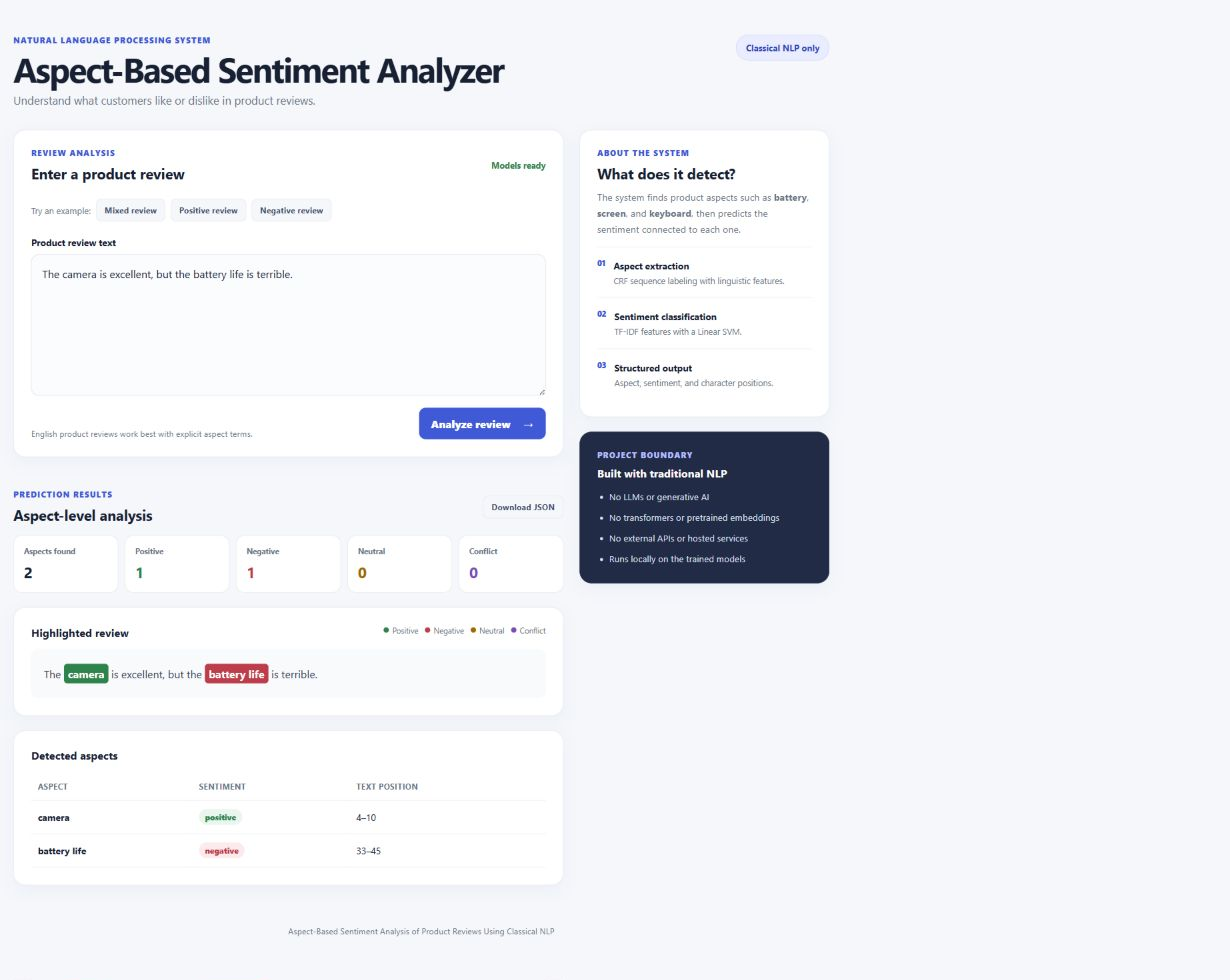
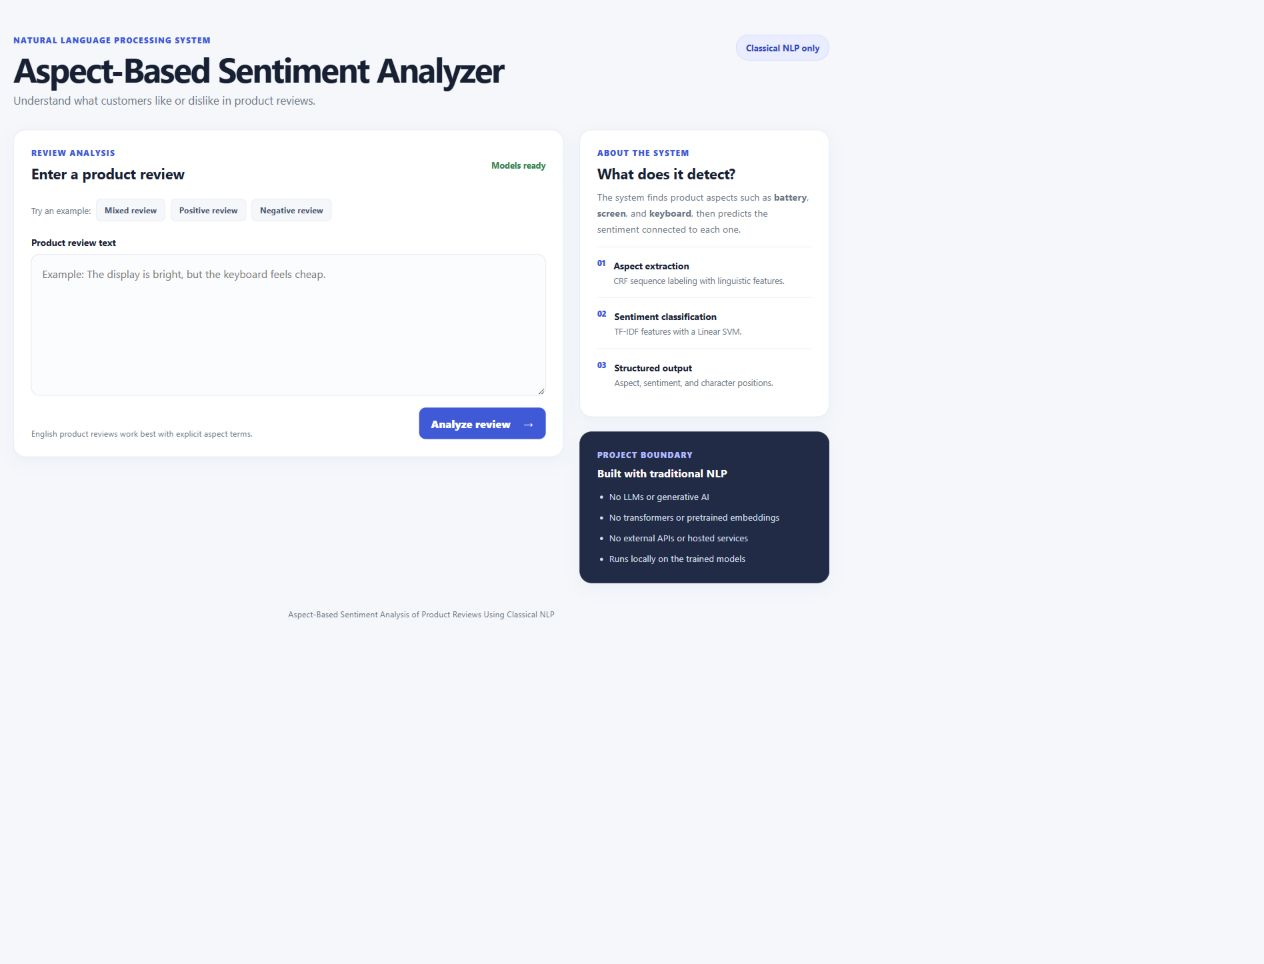
Fix frontend spacing and replace blurry screenshots

diff --git a/frontend/templates/index.html b/frontend/templates/index.html
@@ -51,41 +51,43 @@
                 </article>
 
                 <section id="results-section" hidden>
-                    <div class="section-heading results-heading">
-                        <div><p class="eyebrow">PREDICTION RESULTS</p><h2>Aspect-level analysis</h2></div>
-                        <button class="secondary-button" id="download-button" type="button">Download JSON</button>
-                    </div>
+                    <div class="results-stack">
+                        <div class="section-heading results-heading">
+                            <div><p class="eyebrow">PREDICTION RESULTS</p><h2>Aspect-level analysis</h2></div>
+                            <button class="secondary-button" id="download-button" type="button">Download JSON</button>
+                        </div>
 
-                    <div class="metrics-grid">
-                        <div class="metric-card"><span class="metric-label">Aspects found</span><strong id="aspect-count">0</strong></div>
-                        <div class="metric-card positive-card"><span class="metric-label">Positive</span><strong id="positive-count">0</strong></div>
-                        <div class="metric-card negative-card"><span class="metric-label">Negative</span><strong id="negative-count">0</strong></div>
-                        <div class="metric-card neutral-card"><span class="metric-label">Neutral</span><strong id="neutral-count">0</strong></div>
-                        <div class="metric-card conflict-card"><span class="metric-label">Conflict</span><strong id="conflict-count">0</strong></div>
-                    </div>
+                        <div class="metrics-grid">
+                            <div class="metric-card"><span class="metric-label">Aspects found</span><strong id="aspect-count">0</strong></div>
+                            <div class="metric-card positive-card"><span class="metric-label">Positive</span><strong id="positive-count">0</strong></div>
+                            <div class="metric-card negative-card"><span class="metric-label">Negative</span><strong id="negative-count">0</strong></div>
+                            <div class="metric-card neutral-card"><span class="metric-label">Neutral</span><strong id="neutral-count">0</strong></div>
+                            <div class="metric-card conflict-card"><span class="metric-label">Conflict</span><strong id="conflict-count">0</strong></div>
+                        </div>
 
-                    <article class="card highlighted-card">
-                        <div class="card-heading-row">
-                            <h3>Highlighted review</h3>
-                            <div class="legend">
-                                <span><i class="legend-dot positive-dot"></i>Positive</span>
-                                <span><i class="legend-dot negative-dot"></i>Negative</span>
-                                <span><i class="legend-dot neutral-dot"></i>Neutral</span>
-                                <span><i class="legend-dot conflict-dot"></i>Conflict</span>
+                        <article class="card highlighted-card">
+                            <div class="card-heading-row">
+                                <h3>Highlighted review</h3>
+                                <div class="legend">
+                                    <span><i class="legend-dot positive-dot"></i>Positive</span>
+                                    <span><i class="legend-dot negative-dot"></i>Negative</span>
+                                    <span><i class="legend-dot neutral-dot"></i>Neutral</span>
+                                    <span><i class="legend-dot conflict-dot"></i>Conflict</span>
+                                </div>
                             </div>
-                        </div>
-                        <p class="highlighted-review" id="highlighted-review"></p>
-                    </article>
+                            <p class="highlighted-review" id="highlighted-review"></p>
+                        </article>
 
-                    <article class="card table-card">
-                        <h3>Detected aspects</h3>
-                        <div class="table-wrapper">
-                            <table>
-                                <thead><tr><th>Aspect</th><th>Sentiment</th><th>Text position</th></tr></thead>
-                                <tbody id="results-table"></tbody>
-                            </table>
-                        </div>
-                    </article>
+                        <article class="card table-card">
+                            <h3>Detected aspects</h3>
+                            <div class="table-wrapper">
+                                <table>
+                                    <thead><tr><th>Aspect</th><th>Sentiment</th><th>Text position</th></tr></thead>
+                                    <tbody id="results-table"></tbody>
+                                </table>
+                            </div>
+                        </article>
+                    </div>
                 </section>
             </section>
 

diff --git a/public/static/css/styles.css b/public/static/css/styles.css
@@ -26,8 +26,8 @@ h2 { margin-bottom: 10px; font-size: 1.35rem; }
 h3 { margin-bottom: 15px; font-size: 1.02rem; }
 .subtitle { margin-bottom: 0; color: var(--muted); font-size: 1.05rem; }
 .technology-badge { padding: 10px 14px; color: var(--primary-dark); background: #e9edff; border: 1px solid #cdd6ff; border-radius: 999px; font-size: 0.82rem; font-weight: 700; white-space: nowrap; }
-.layout-grid { display: grid; grid-template-columns: minmax(0, 1.65fr) minmax(280px, 0.75fr); gap: 24px; padding-bottom: 38px; }
-.main-column, .side-column { display: flex; flex-direction: column; gap: 22px; }
+.layout-grid { display: grid; grid-template-columns: minmax(0, 1.65fr) minmax(280px, 0.75fr); align-items: start; gap: 24px; padding-bottom: 38px; }
+.main-column, .side-column { display: flex; flex-direction: column; gap: 24px; }
 .card { padding: 26px; background: var(--surface); border: 1px solid var(--line); border-radius: 18px; box-shadow: 0 8px 25px rgba(28, 41, 70, 0.04); }
 .section-heading, .card-heading-row, .form-footer { display: flex; align-items: center; justify-content: space-between; gap: 16px; }
 .section-heading { margin-bottom: 24px; }
@@ -47,13 +47,15 @@ textarea:focus { border-color: var(--primary); box-shadow: 0 0 0 3px rgba(54, 88
 .primary-button:hover { background: var(--primary-dark); }.primary-button:disabled { opacity: 0.65; cursor: wait; }
 .button-arrow { font-size: 1.2rem; line-height: 0.8; }
 .message { margin-top: 16px; padding: 12px 14px; color: var(--negative); background: #fff1f2; border: 1px solid #fecdd3; border-radius: 9px; font-size: 0.86rem; }
-.results-heading { margin: 26px 0 16px; }
-.metrics-grid { display: grid; grid-template-columns: repeat(5, minmax(0, 1fr)); gap: 10px; margin-bottom: 22px; }
-.metric-card { padding: 15px; background: var(--surface); border: 1px solid var(--line); border-radius: 13px; }
+.results-stack { display: grid; gap: 24px; }
+.results-heading { margin: 0; }
+.metrics-grid { display: grid; grid-template-columns: repeat(5, minmax(0, 1fr)); gap: 12px; }
+.metric-card { display: grid; min-height: 92px; align-content: space-between; padding: 15px; background: var(--surface); border: 1px solid var(--line); border-radius: 13px; }
 .metric-label { display: block; margin-bottom: 8px; color: var(--muted); font-size: 0.72rem; font-weight: 700; }
 .metric-card strong { font-size: 1.45rem; }.positive-card strong { color: var(--positive); }.negative-card strong { color: var(--negative); }.neutral-card strong { color: var(--neutral); }.conflict-card strong { color: var(--conflict); }
-.highlighted-card, .table-card { margin-bottom: 22px; }
+.highlighted-card, .table-card { margin-bottom: 0; }
 .card-heading-row { align-items: flex-start; }.legend { display: flex; flex-wrap: wrap; gap: 10px; color: var(--muted); font-size: 0.72rem; }
+.card-heading-row h3 { margin-bottom: 0; }
 .legend span { display: inline-flex; align-items: center; gap: 5px; }.legend-dot { display: inline-block; width: 8px; height: 8px; border-radius: 50%; }.positive-dot { background: var(--positive); }.negative-dot { background: var(--negative); }.neutral-dot { background: var(--neutral); }.conflict-dot { background: var(--conflict); }
 .highlighted-review { margin-bottom: 0; padding: 19px; color: #334155; background: #f8fafc; border-radius: 11px; line-height: 2.2; }.highlighted-review mark { color: white; border-radius: 5px; padding: 4px 6px; font-weight: 700; }.highlight-positive { background: var(--positive); }.highlight-negative { background: var(--negative); }.highlight-neutral { background: var(--neutral); }.highlight-conflict { background: var(--conflict); }
 .table-wrapper { overflow-x: auto; } table { width: 100%; border-collapse: collapse; font-size: 0.87rem; } th, td { padding: 13px 10px; text-align: left; border-bottom: 1px solid var(--line); } th { color: var(--muted); font-size: 0.72rem; letter-spacing: 0.05em; text-transform: uppercase; }.empty-cell { color: var(--muted); text-align: center; }

diff --git a/README.md b/README.md
@@ -93,19 +93,19 @@ Then open `http://127.0.0.1:8000`. The frontend accepts a product review, highli
 
 ## Screenshots
 
-The screenshots below show the standalone frontend using the trained classical NLP models:
+The screenshots below are fresh, native-resolution browser captures of the standalone frontend using the trained classical NLP models. They are intentionally not resized or cropped; open an image to view its original pixels.
 
-### Complete application flow
+### Frontend overview
 
-<img src="docs/screenshots/frontend-overview.png" alt="Complete frontend application flow" width="900">
+<a href="docs/screenshots/frontend-overview.png"><img src="docs/screenshots/frontend-overview.png" alt="Complete frontend application flow"></a>
 
 ### Review input
 
-<img src="docs/screenshots/frontend-input.png" alt="Frontend review input" width="570">
+<a href="docs/screenshots/frontend-input.png"><img src="docs/screenshots/frontend-input.png" alt="Frontend review input"></a>
 
 ### Aspect-level results
 
-<img src="docs/screenshots/frontend-analysis.png" alt="Frontend aspect-level results" width="570">
+<a href="docs/screenshots/frontend-analysis.png"><img src="docs/screenshots/frontend-analysis.png" alt="Frontend aspect-level results"></a>
 
 ## Methodology
 

diff --git a/CHANGELOG.md b/CHANGELOG.md
@@ -31,5 +31,6 @@ All notable project changes will be recorded here.
 - Regenerated the committed runtime model artifacts through the complete build-and-verification workflow.
 - Added explicit Author and License sections to the root README.
 - Added README architecture, testing, and verified frontend screenshot sections.
-- Re-exported frontend screenshots at higher resolution and set a controlled README display width for sharper rendering.
-- Added a native-resolution overview screenshot showing the complete frontend flow.
+- Replaced resized screenshot exports with fresh native-resolution browser captures; the committed evidence is not cropped or artificially upscaled.
+- Updated the README image links so each screenshot opens at its original resolution.
+- Rebalanced frontend result spacing with a consistent vertical stack and equal-height metric cards.
